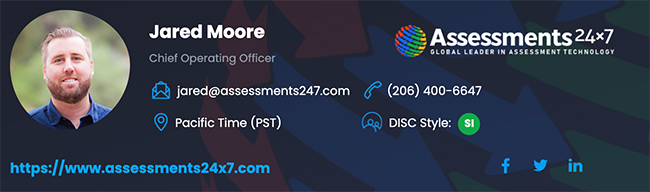
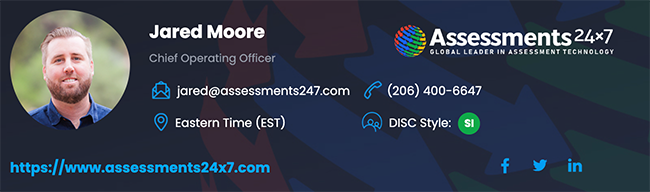
Updating Jareds email signature

diff --git a/static/email-signatures/new/jared.html b/static/email-signatures/new/jared.html
@@ -148,7 +148,7 @@
                                                                 <tbody>
                                                                     <tr>
                                                                         <td width="25" height="30" valign="top"><img src="https://www.assessments24x7.com/email-signatures/images/icon_blue_address.png" alt="Address" border="0" width="22" style="border:0; outline:none;" /></td>
-                                                                        <td width="" height="30" valign="top" align="left" style="font-family:'Poppins', sans-serif, Arial; font-size:12px; line-height:24px; font-weight:400; color:#ffffff;">Pacific Time (PST)</td>
+                                                                        <td width="" height="30" valign="top" align="left" style="font-family:'Poppins', sans-serif, Arial; font-size:12px; line-height:24px; font-weight:400; color:#ffffff;">Eastern Time (EST)</td>
                                                                     </tr>
                                                                 </tbody>
                                                             </table>
